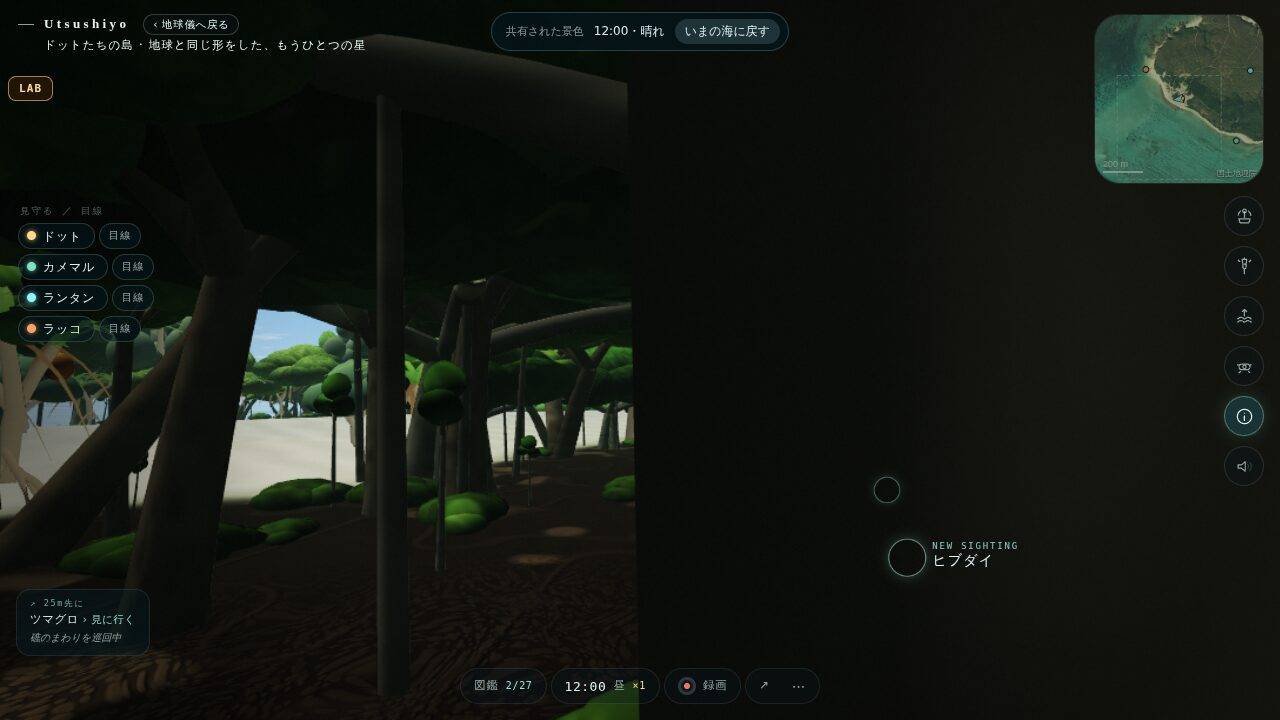
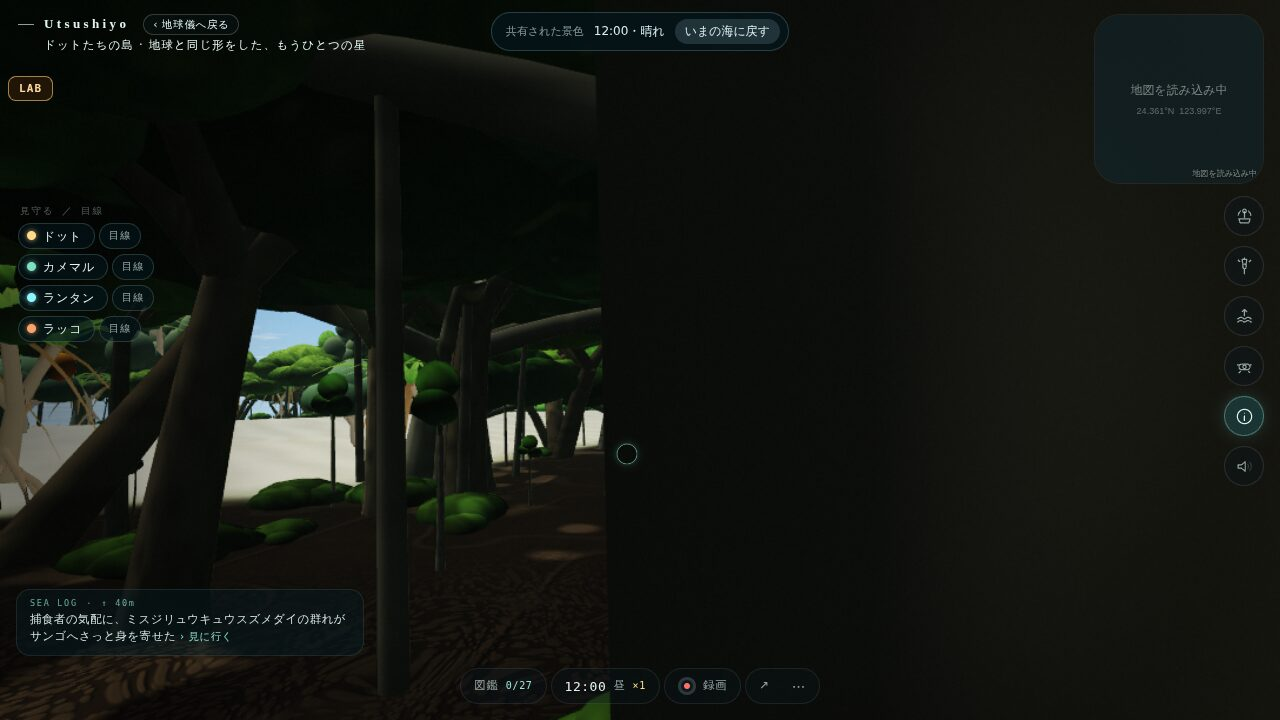
Nature look: the inside-the-forest pair shot again without the HUD's left-over sighting mark
Claude-Session: https://claude.ai/code/session_01JfPZWDMxHrdtWGFz5XEZWr

diff --git a/docs/proposals/nature-look-2026-10-09/HANDOFF.md b/docs/proposals/nature-look-2026-10-09/HANDOFF.md
@@ -18,6 +18,8 @@
 
 撮り直し：`npx vite build && npx vite preview --port 4174` を動かした状態で `OUT=<dir> TAG=after node tools/lab/island.cjs`。1か所あたり数分かかる。
 
+林の中の2枚は撮り直した。最初の版には、海の中で見つけた生き物の「NEW SIGHTING」の印が、木越しに残って写っていた（本体への依頼 `TO-MAIN-new-sighting.md`）。撮影ツールは HUD の印を隠して撮るようにしてある。前の画像は、main 37782a1 を別にビルドして撮った。
+
 ## 2. 変えたファイルと中身
 
 ### 林の木：`src/ocean/forest.ts`（`treeGeo`、`shrubGeo`、`treeMat` の葉の部分）
